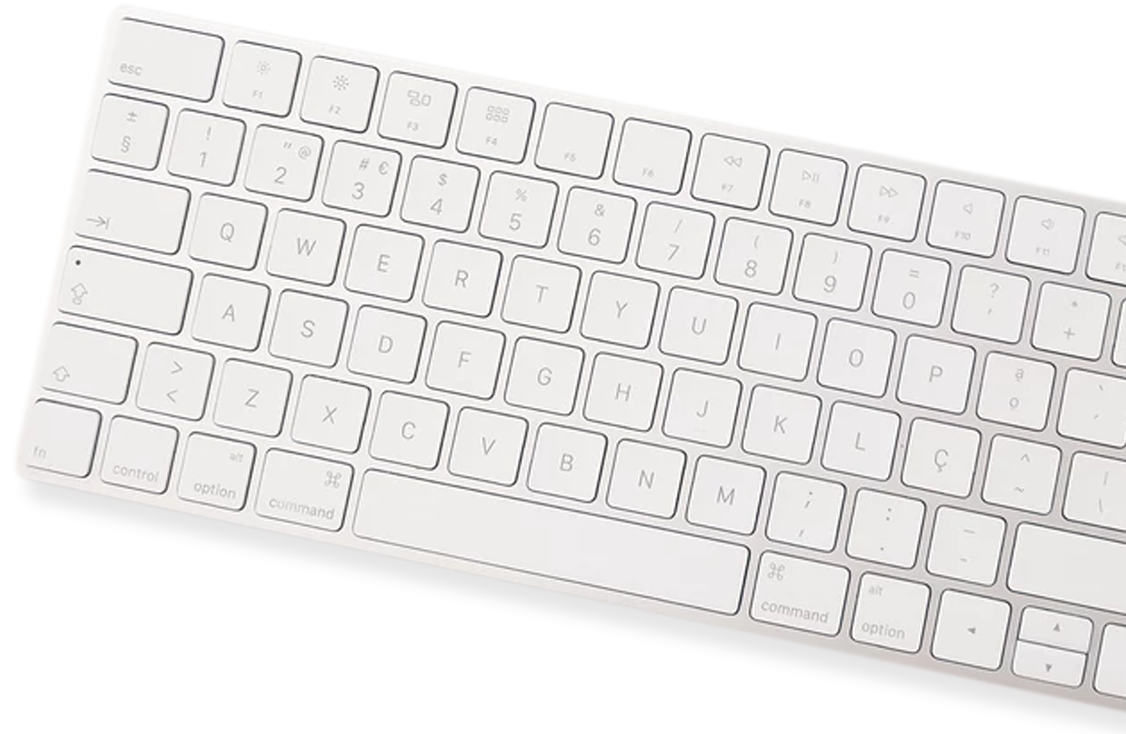
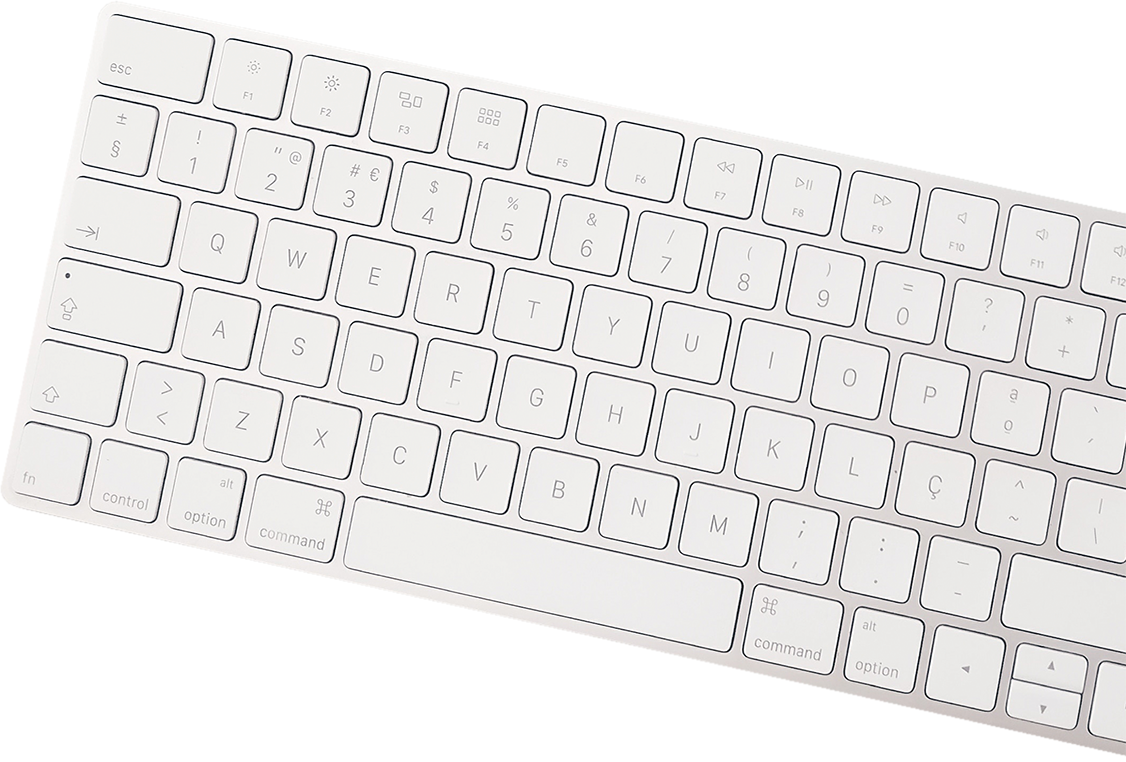
New images

Changed region(s): [[0.0, 0.03, 1.0, 1.0], [0.373, 0.7493, 0.4663, 0.7793], [0.0933, 0.0, 0.1243, 0.03]]

diff --git a/src/landing-sections/Services/index.js b/src/landing-sections/Services/index.js
@@ -11,11 +11,13 @@ import {
   ServiceItem,
   Fill,
   Image,
+  Picture,
   Space
 } from "./Grid";
 
 import pencilIMG from "./pencil.png";
 import keyboardIMG from "./keyboard.png";
+import keyboardIMG_small from "./keyboard-s.png";
 
 const ServicesSection = () => (
   <section id="services" className="padding">
@@ -70,7 +72,7 @@ const ServicesSection = () => (
               Social Media
               <ul>
                 <li>Publicaciones en redes sociales</li>
-                <li>Campañas en resdes sociales</li>
+                <li>Campañas en redes sociales</li>
               </ul>
             </ServiceItem>
           </ServiceCol2>
@@ -133,7 +135,11 @@ const ServicesSection = () => (
         </Services>
         <Space rowStart={6} rowEnd={7} height={100} />
         <Fill right />
-        <Image src={keyboardIMG} right />
+        <Picture>
+          <source media="(max-width: 800px)" srcSet={keyboardIMG_small} />
+          <source media="(min-width: 801px)" srcSet={keyboardIMG} />
+          <img src={keyboardIMG} />
+        </Picture>
       </Grid>
     </div>
   </section>

diff --git a/src/landing-sections/Services/Grid.js b/src/landing-sections/Services/Grid.js
@@ -74,11 +74,19 @@ export const ServiceItem = styled.li`
 
 export const Image = styled.img`
   grid-row: 5 / 8;
-  grid-column: ${({ right }) => (right ? "7 / 15" : "1 / 7")};
+  grid-column: 1 / 7;
   align-self: end;
   @media (max-width: 800px) {
     grid-row: 4 / 7;
-    grid-column: ${({ right }) => (right ? "7 / 15" : "1 / 8")};
+    grid-column: 1 / 8;
+  }
+`;
+export const Picture = styled.picture`
+  grid-row: 5 / 8;
+  grid-column: 7 / 15;
+  align-self: end;
+  @media (max-width: 800px) {
+    grid-row: 4 / 7;
   }
 `;
 export const Space = styled.div`

diff --git a/src/landing-sections/Contact/index.js b/src/landing-sections/Contact/index.js
@@ -85,7 +85,6 @@ const Contact = () => (
         <br />
         Talk?
       </h1>
-      <img src={telephoneThunder} alt="" />
       <form
         className="form"
         action="https://formspree.io/info@estudioyobo.com"
